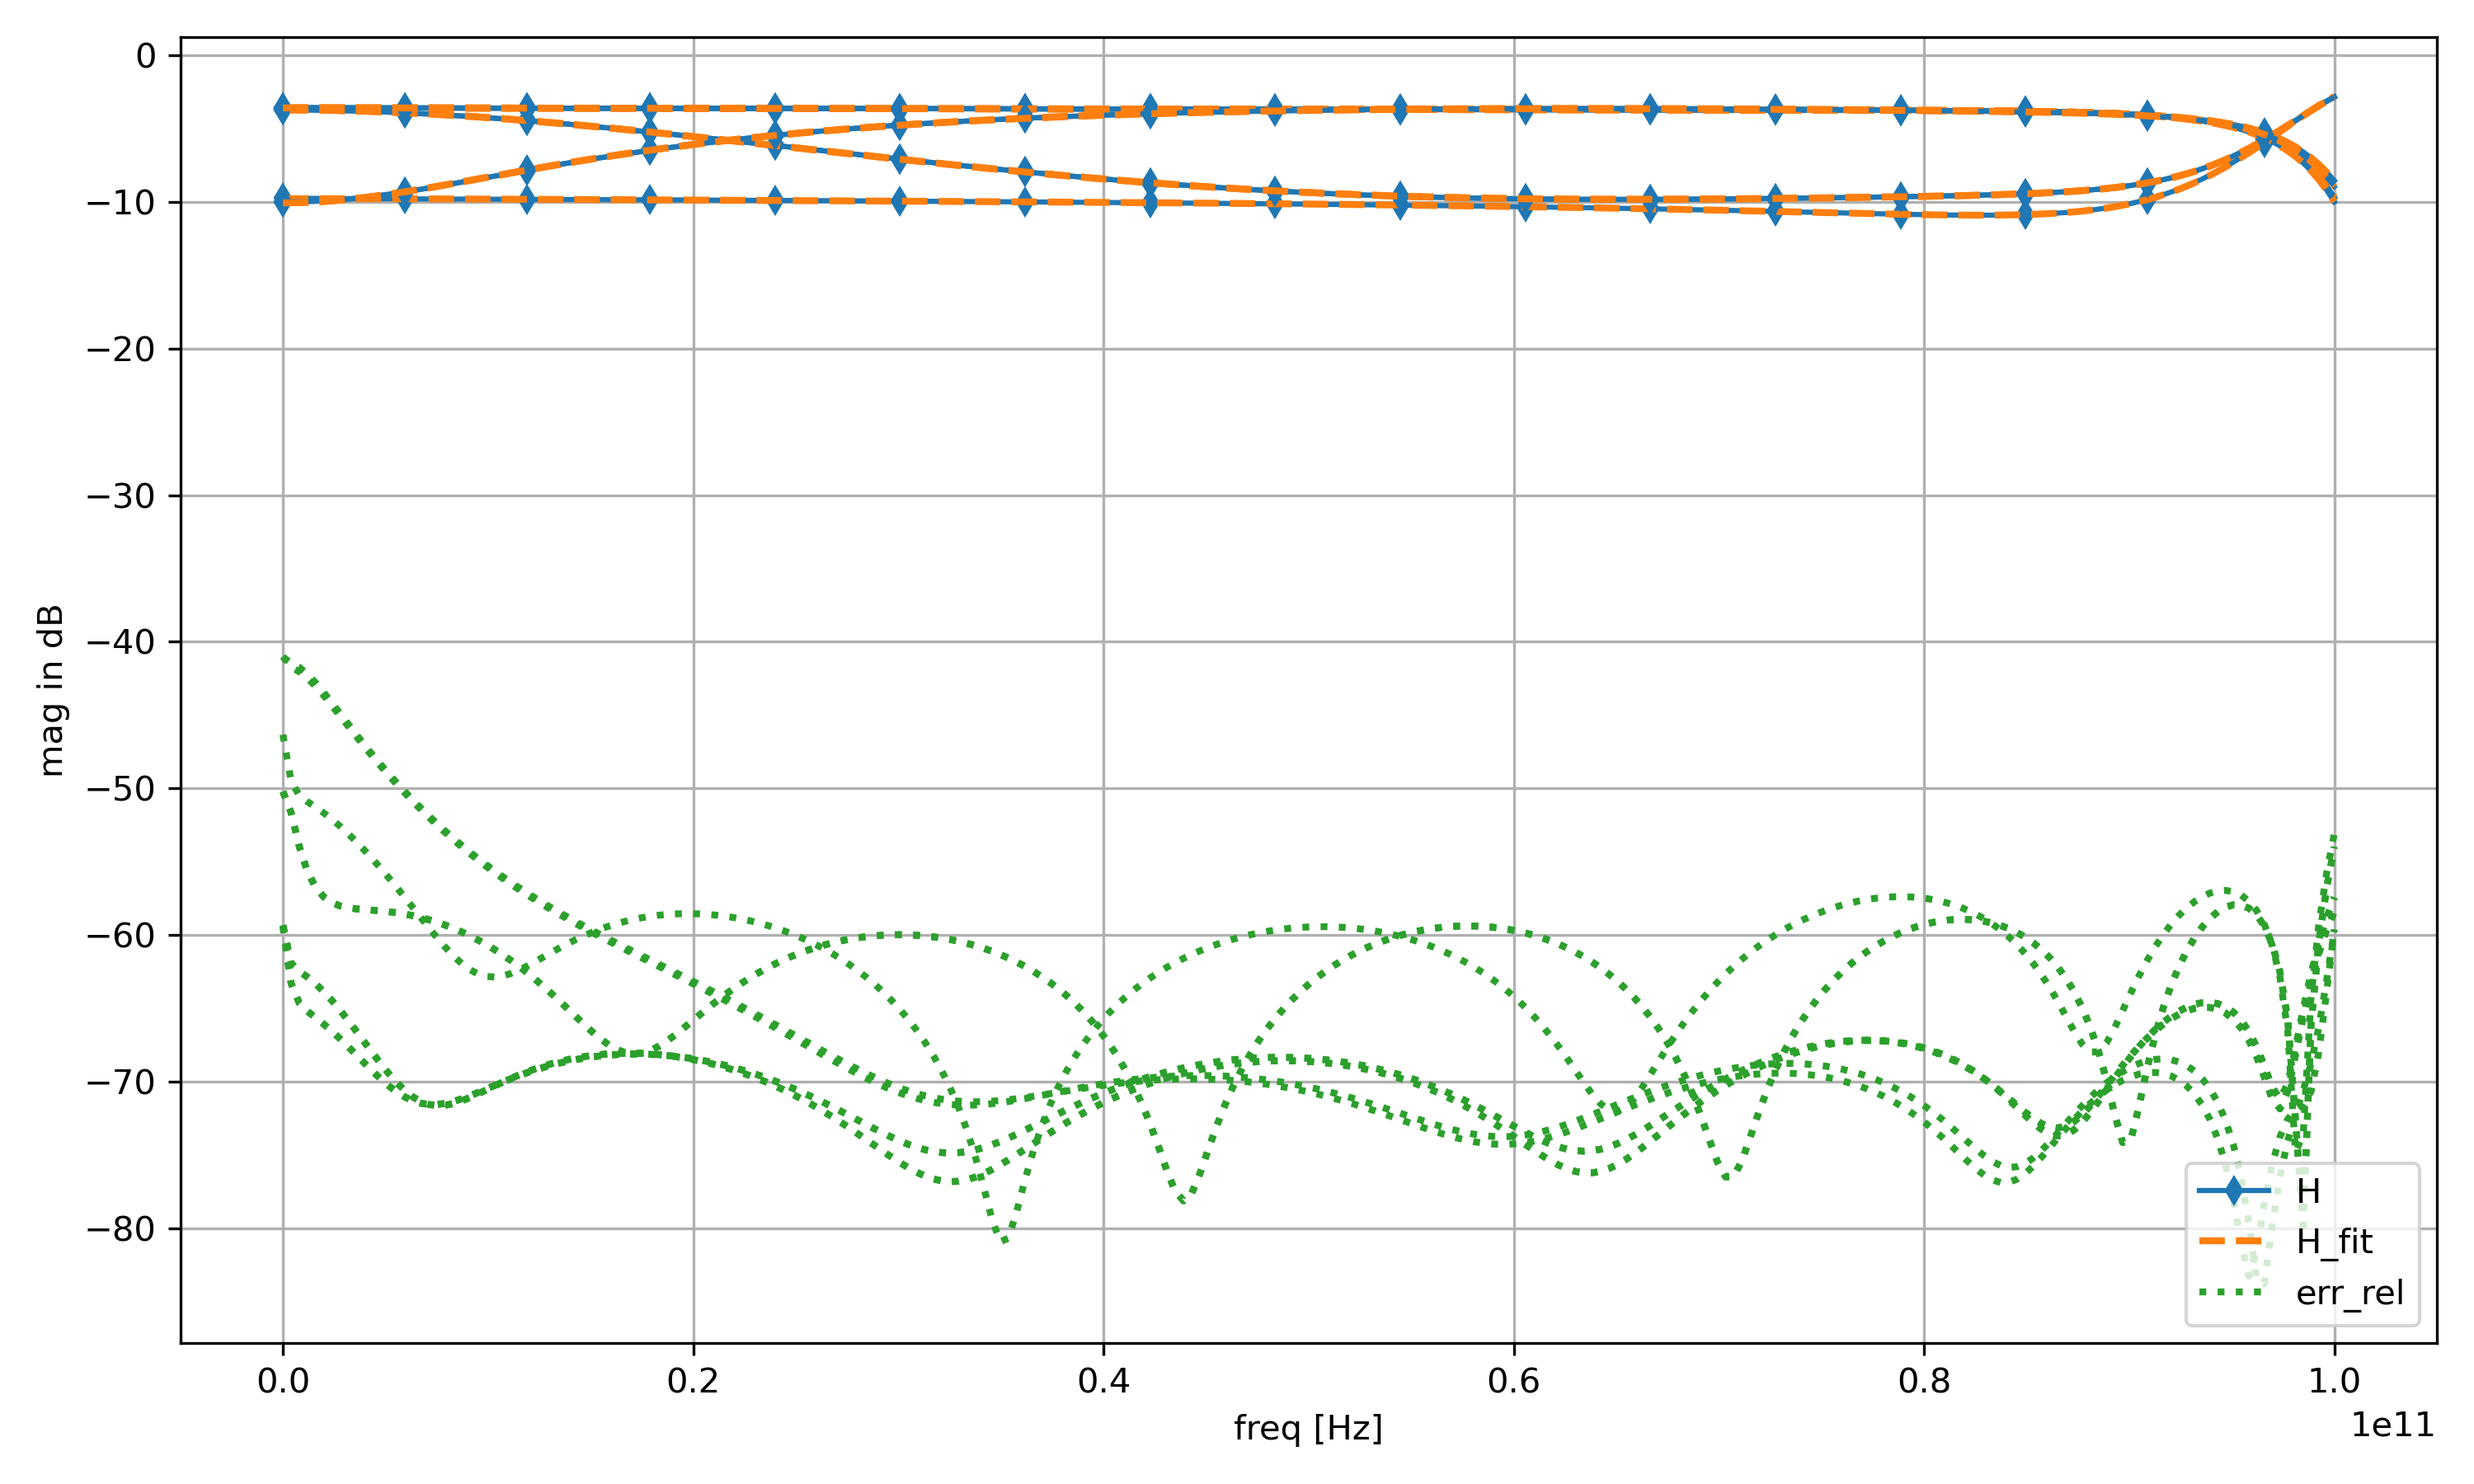
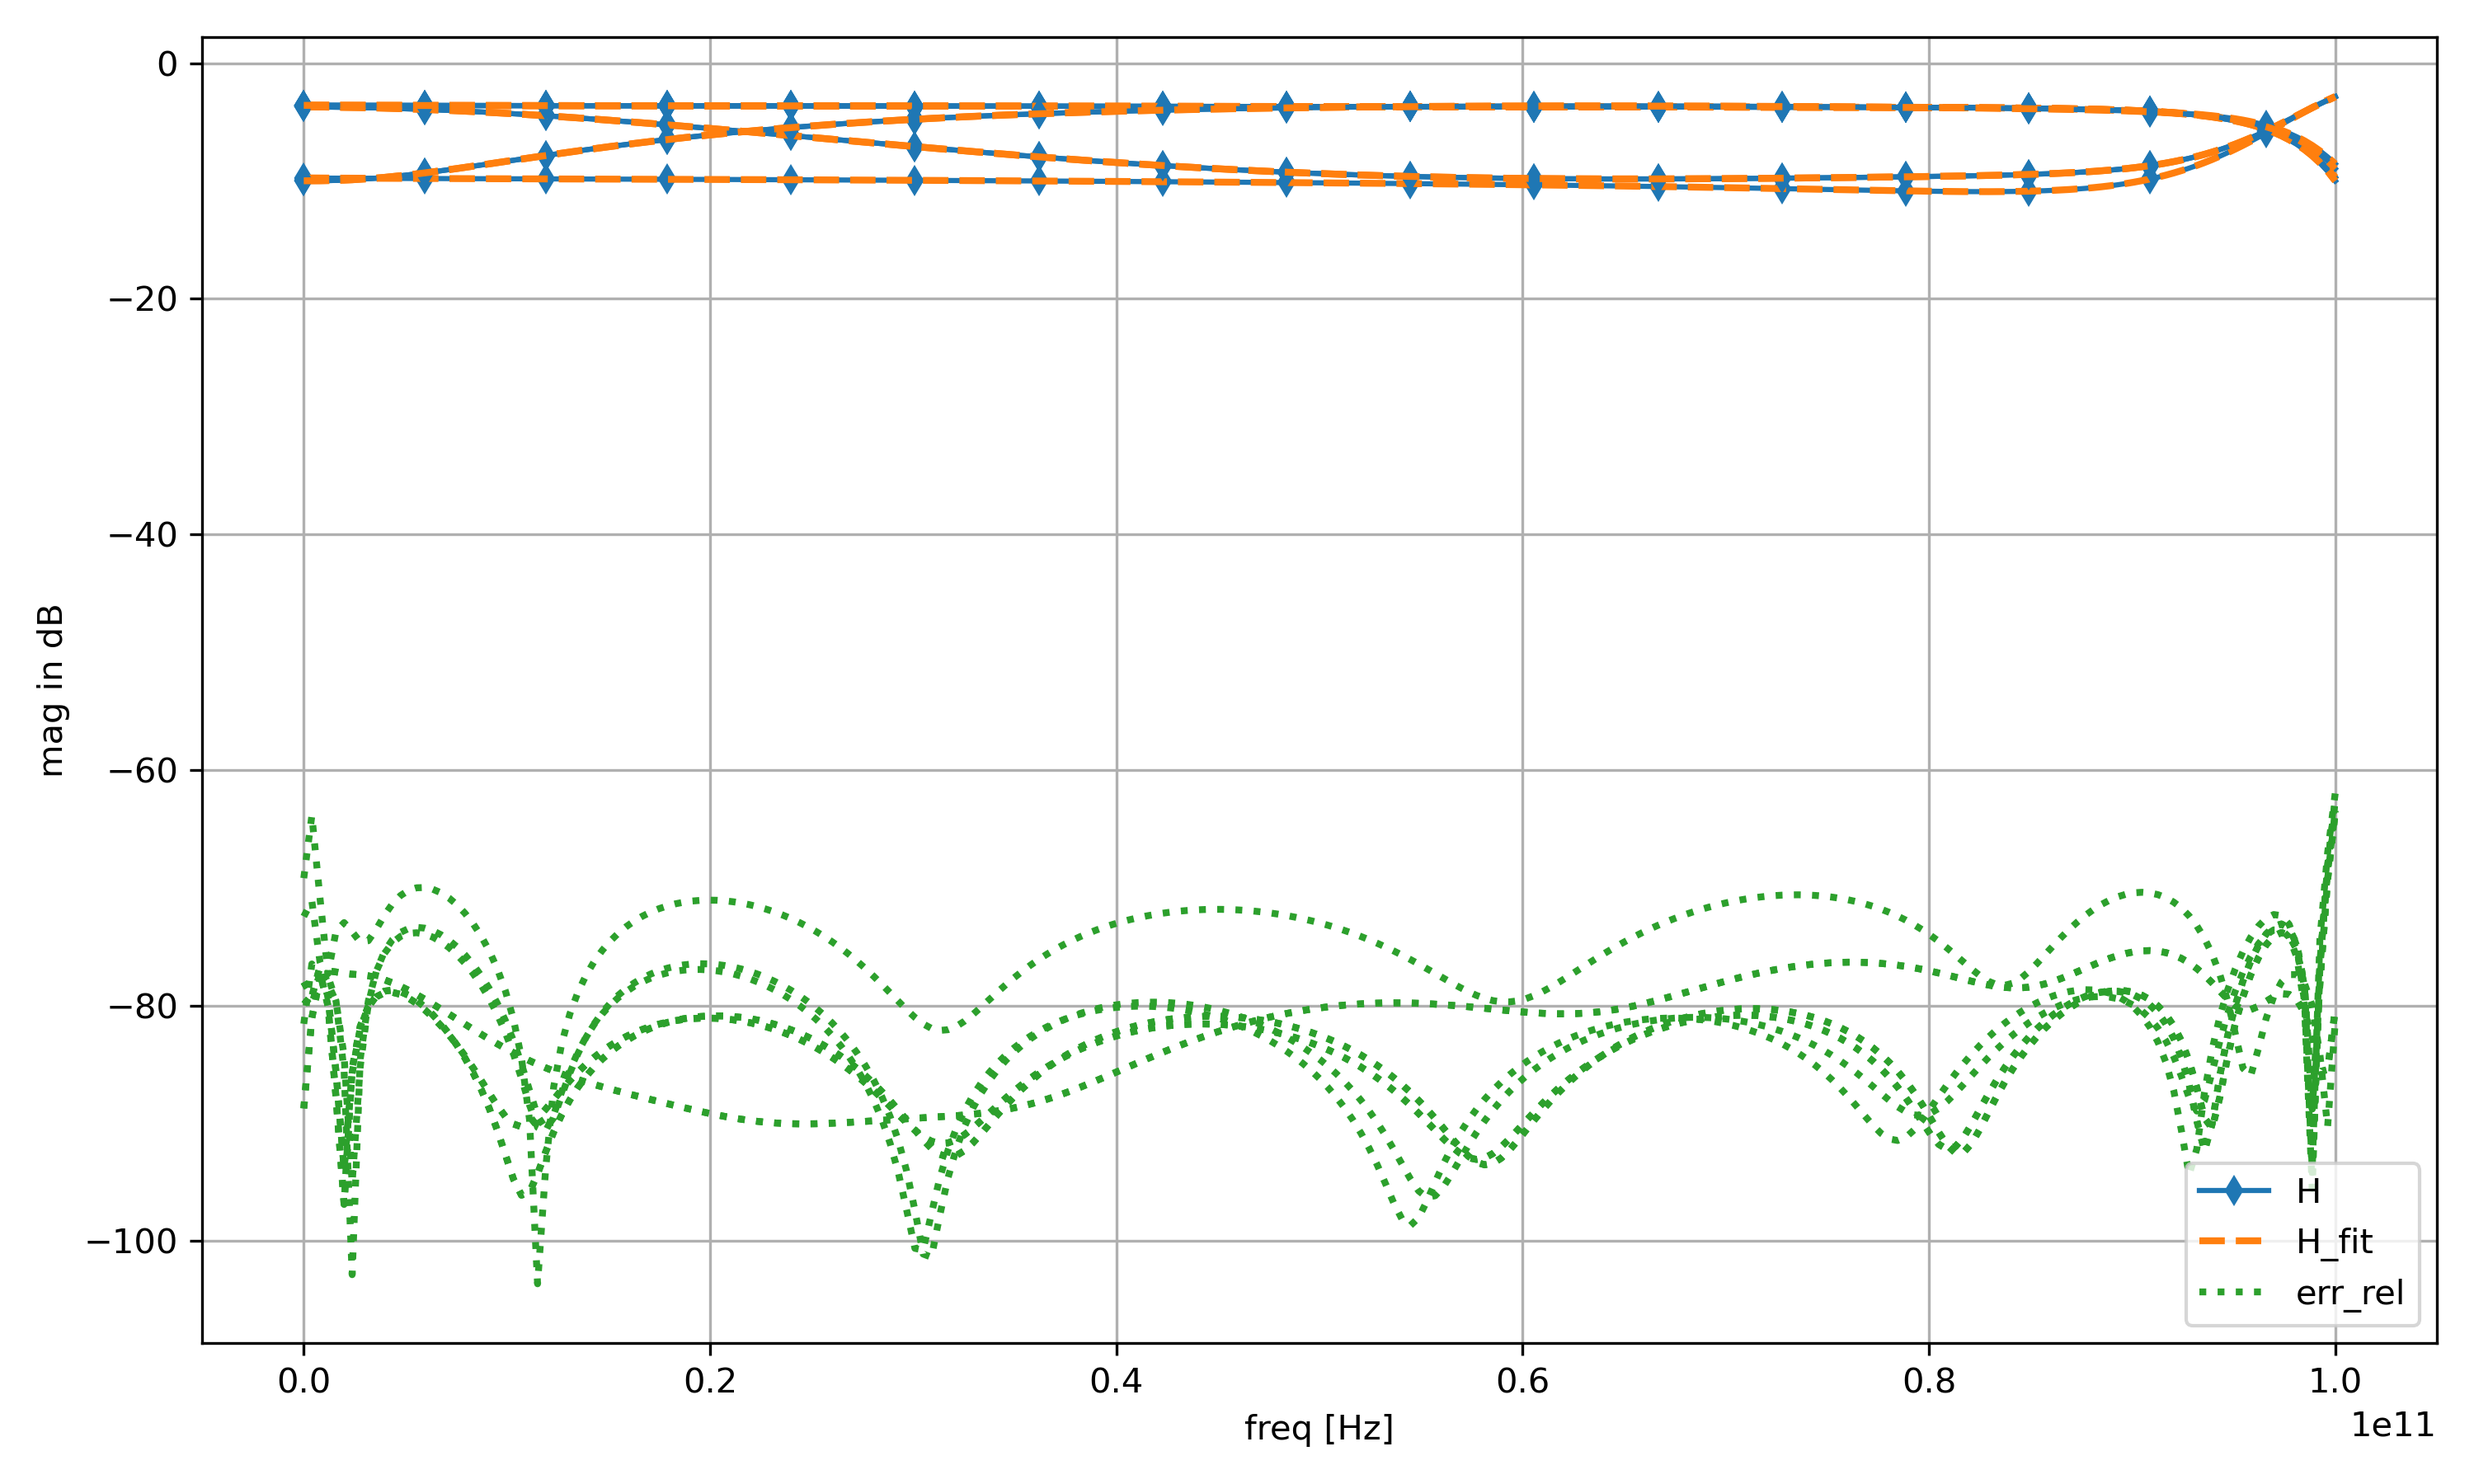
updated readme

diff --git a/README.md b/README.md
@@ -2,7 +2,7 @@
 
 This is a from scratch pure python implementation of the fast relaxed vectorfitting algorithm for MIMO frequency domain data. Different modes (standard VF, relaxed VF and fast relaxed VF) are implemented. Matrix shaped frequency domain data is supported, and a model with common poles is fitted
 
-$$ \mathbf{H}_{fit}(s) = \mathbf{D} + s \cdot \mathbf{E} + \sum_{k=1}^{n} \mathbf{R}_{k} \cdot \frac{1}{s - p_k} $$
+$$\mathbf{H}_{fit}(s) = \mathbf{D} + s \cdot \mathbf{E} + \sum_{k=1}^{n} \mathbf{R}_{k} \cdot \frac{1}{s - p_k} $$
 
 where $\mathbf{D}$ is the constant term, $\mathbf{E}$ is the linear term and $\mathbf{R}_{k}$, $p_k$ are the (possibly complex) residues in matrix form and poles. 
 
@@ -12,10 +12,10 @@ where $\mathbf{D}$ is the constant term, $\mathbf{E}$ is the linear term and $\m
 ```python
 import numpy as np
 import matplotlib.pyplot as plt
-plt.style.use('dark_background')
+# plt.style.use('dark_background')
 cycle = plt.rcParams['axes.prop_cycle'].by_key()['color']
 
-from vectorfitting.vecfit import VecFit
+from vectorfitting import VecFit, RelaxedVecFit, FastRelaxedVecFit
 from vectorfitting.parsers import read_touchstone
 ```
 
@@ -23,12 +23,22 @@ from vectorfitting.parsers import read_touchstone
 ```python
 #load data from snp file
 Freq, H, *_ = read_touchstone(r"example_data/3port.s3p")
+
+#initialize vectorfitting engine
+
 ```
 
 
 ```python
-#initialize vectorfitting engine
-VF = VecFit(H, Freq, n_cpx=5, n_real=1, mode="fast_relax", smart=False, autoreduce=True, fit_Const=True, fit_Diff=False)
+#or initialize vectorfitting engine directly from touchstone file
+VF, H, Freq = FastRelaxedVecFit.from_touchstone(
+    filepath=r"example_data/3port.s3p",
+    n_cpx=6,
+    n_real=1,
+    smart=False,
+    autoreduce=False
+)
+
 
 #run fitting procedure
 VF.fit(tol=2e-3, max_steps=15, debug=True)
@@ -36,87 +46,22 @@ VF.fit(tol=2e-3, max_steps=15, debug=True)
 
     debugging status : 
         iteration step number  (step)          : 0
-        model order            (n_real, n_cpx) : 1, 5
-        fitting relative error (mean, max)     : 0.49136901566282815, 2.6578502025354247
+        model order            (n_real, n_cpx) : 7, 3
+        fitting relative error (mean, max)     : 0.0001708429691544018, 0.0023363418460802367
     
     debugging status : 
         iteration step number  (step)          : 1
-        model order            (n_real, n_cpx) : 3, 4
-        fitting relative error (mean, max)     : 0.0005314484496934593, 0.0037071766858118166
-    
-    n_cpx: 4 -> 3
-    n_real: 3 -> 1
-    debugging status : 
-        iteration step number  (step)          : 2
-        model order            (n_real, n_cpx) : 1, 3
-        fitting relative error (mean, max)     : 0.000601863484911078, 0.009863669001014331
-    
-    debugging status : 
-        iteration step number  (step)          : 3
-        model order            (n_real, n_cpx) : 1, 3
-        fitting relative error (mean, max)     : 0.0006076050098628053, 0.008919597399132284
-    
-    debugging status : 
-        iteration step number  (step)          : 4
-        model order            (n_real, n_cpx) : 1, 3
-        fitting relative error (mean, max)     : 0.0006076550011959909, 0.008918540946275663
-    
-    debugging status : 
-        iteration step number  (step)          : 5
-        model order            (n_real, n_cpx) : 1, 3
-        fitting relative error (mean, max)     : 0.000607632170121146, 0.008918566425846043
-    
-    debugging status : 
-        iteration step number  (step)          : 6
-        model order            (n_real, n_cpx) : 1, 3
-        fitting relative error (mean, max)     : 0.0006076146740863348, 0.008918478457278533
-    
-    debugging status : 
-        iteration step number  (step)          : 7
-        model order            (n_real, n_cpx) : 1, 3
-        fitting relative error (mean, max)     : 0.0006075996265260031, 0.008918338497518025
-    
-    debugging status : 
-        iteration step number  (step)          : 8
-        model order            (n_real, n_cpx) : 1, 3
-        fitting relative error (mean, max)     : 0.0006075856683252453, 0.008918175406857276
-    
-    debugging status : 
-        iteration step number  (step)          : 9
-        model order            (n_real, n_cpx) : 1, 3
-        fitting relative error (mean, max)     : 0.000607572196899556, 0.008918002032897865
-    
-    debugging status : 
-        iteration step number  (step)          : 10
-        model order            (n_real, n_cpx) : 1, 3
-        fitting relative error (mean, max)     : 0.0006075589445992705, 0.008917824092794605
-    
-    debugging status : 
-        iteration step number  (step)          : 11
-        model order            (n_real, n_cpx) : 1, 3
-        fitting relative error (mean, max)     : 0.0006075457924385128, 0.008917644130316128
-    
-    debugging status : 
-        iteration step number  (step)          : 12
-        model order            (n_real, n_cpx) : 1, 3
-        fitting relative error (mean, max)     : 0.0006075326875048429, 0.008917463277106725
-    
-    debugging status : 
-        iteration step number  (step)          : 13
-        model order            (n_real, n_cpx) : 1, 3
-        fitting relative error (mean, max)     : 0.0006075196062661778, 0.008917282036522933
-    
-    debugging status : 
-        iteration step number  (step)          : 14
-        model order            (n_real, n_cpx) : 1, 3
-        fitting relative error (mean, max)     : 0.0006075065382573192, 0.00891710063243876
-    
-    debugging status : 
-        iteration step number  (step)          : 15
-        model order            (n_real, n_cpx) : 1, 3
-        fitting relative error (mean, max)     : 0.0006074934788234803, 0.008916919164411521
+        model order            (n_real, n_cpx) : 3, 5
+        fitting relative error (mean, max)     : 9.409935882693254e-05, 0.0008016668878070043
     
     
+
+
+
+
+    <vectorfitting.transferfunction.TransferFunction at 0x229ef6a8140>
+
+
 
 
 ```python
@@ -130,7 +75,7 @@ err_rel = (H - H_fit) / H
 dB  = lambda x: 20*np.log10(abs(x))
 
 #plot results
-fig, ax = plt.subplots(nrows=1, ncols=1, figsize=(10,6), tight_layout=True, dpi=150)
+fig, ax = plt.subplots(nrows=1, ncols=1, figsize=(10,6), tight_layout=True, dpi=100)
 
 N, n, m = H.shape
 
@@ -146,7 +91,7 @@ ax.set_ylabel("mag in dB")
 ax.grid(True)
 ax.legend(loc="lower right")
 
-fig.savefig("test_freq.svg")
+fig.savefig("Figures/test_freq.png", dpi=300)
 ```
 
 
@@ -163,7 +108,7 @@ poles = VF.TF.Poles
 print("poles :", poles)
 
 #plot results
-fig, ax = plt.subplots(nrows=1, ncols=1, figsize=(6,6), tight_layout=True, dpi=150)
+fig, ax = plt.subplots(nrows=1, ncols=1, figsize=(6,6), tight_layout=True, dpi=100)
 
 ax.scatter(poles.real, poles.imag, marker="x", s=60, color=cycle[0], label="poles")
 
@@ -172,14 +117,16 @@ ax.set_ylabel("Imag")
 ax.grid(True)
 ax.legend(loc="lower right")
 
-fig.savefig("test_poles.svg")
-
+fig.savefig("Figures/test_poles.png", dpi=300)
 ```
 
-    poles : [-1.82950411e+11+0.00000000e+00j -3.69223122e+10+6.37578277e+11j
-     -3.69223122e+10-6.37578277e+11j -4.08834650e+11+7.83778848e+11j
-     -4.08834650e+11-7.83778848e+11j -4.28507940e+11+4.25829589e+11j
-     -4.28507940e+11-4.25829589e+11j]
+    poles : [-1.72203113e+12+0.00000000e+00j -1.83467749e+11+0.00000000e+00j
+     -5.17583220e+09+0.00000000e+00j -9.25175278e+10+1.32482288e+12j
+     -9.25175278e+10-1.32482288e+12j -7.61051335e+11+3.86841214e+11j
+     -7.61051335e+11-3.86841214e+11j -3.68806617e+10+6.37226049e+11j
+     -3.68806617e+10-6.37226049e+11j -1.75281196e+11+9.13374927e+10j
+     -1.75281196e+11-9.13374927e+10j -1.13430812e+10+7.73637981e+08j
+     -1.13430812e+10-7.73637981e+08j]
     
 
 
@@ -200,6 +147,12 @@ fig.savefig("test_poles.svg")
 ```python
 !jupyter nbconvert --ClearMetadataPreprocessor.enabled=True --ClearOutput.enabled=True --to markdown README.ipynb
 ```
+
+    [NbConvertApp] Converting notebook README.ipynb to markdown
+    [NbConvertApp] Support files will be in README_files\
+    [NbConvertApp] Making directory README_files
+    [NbConvertApp] Writing 4401 bytes to README.md
+    
 
 
 ```python
